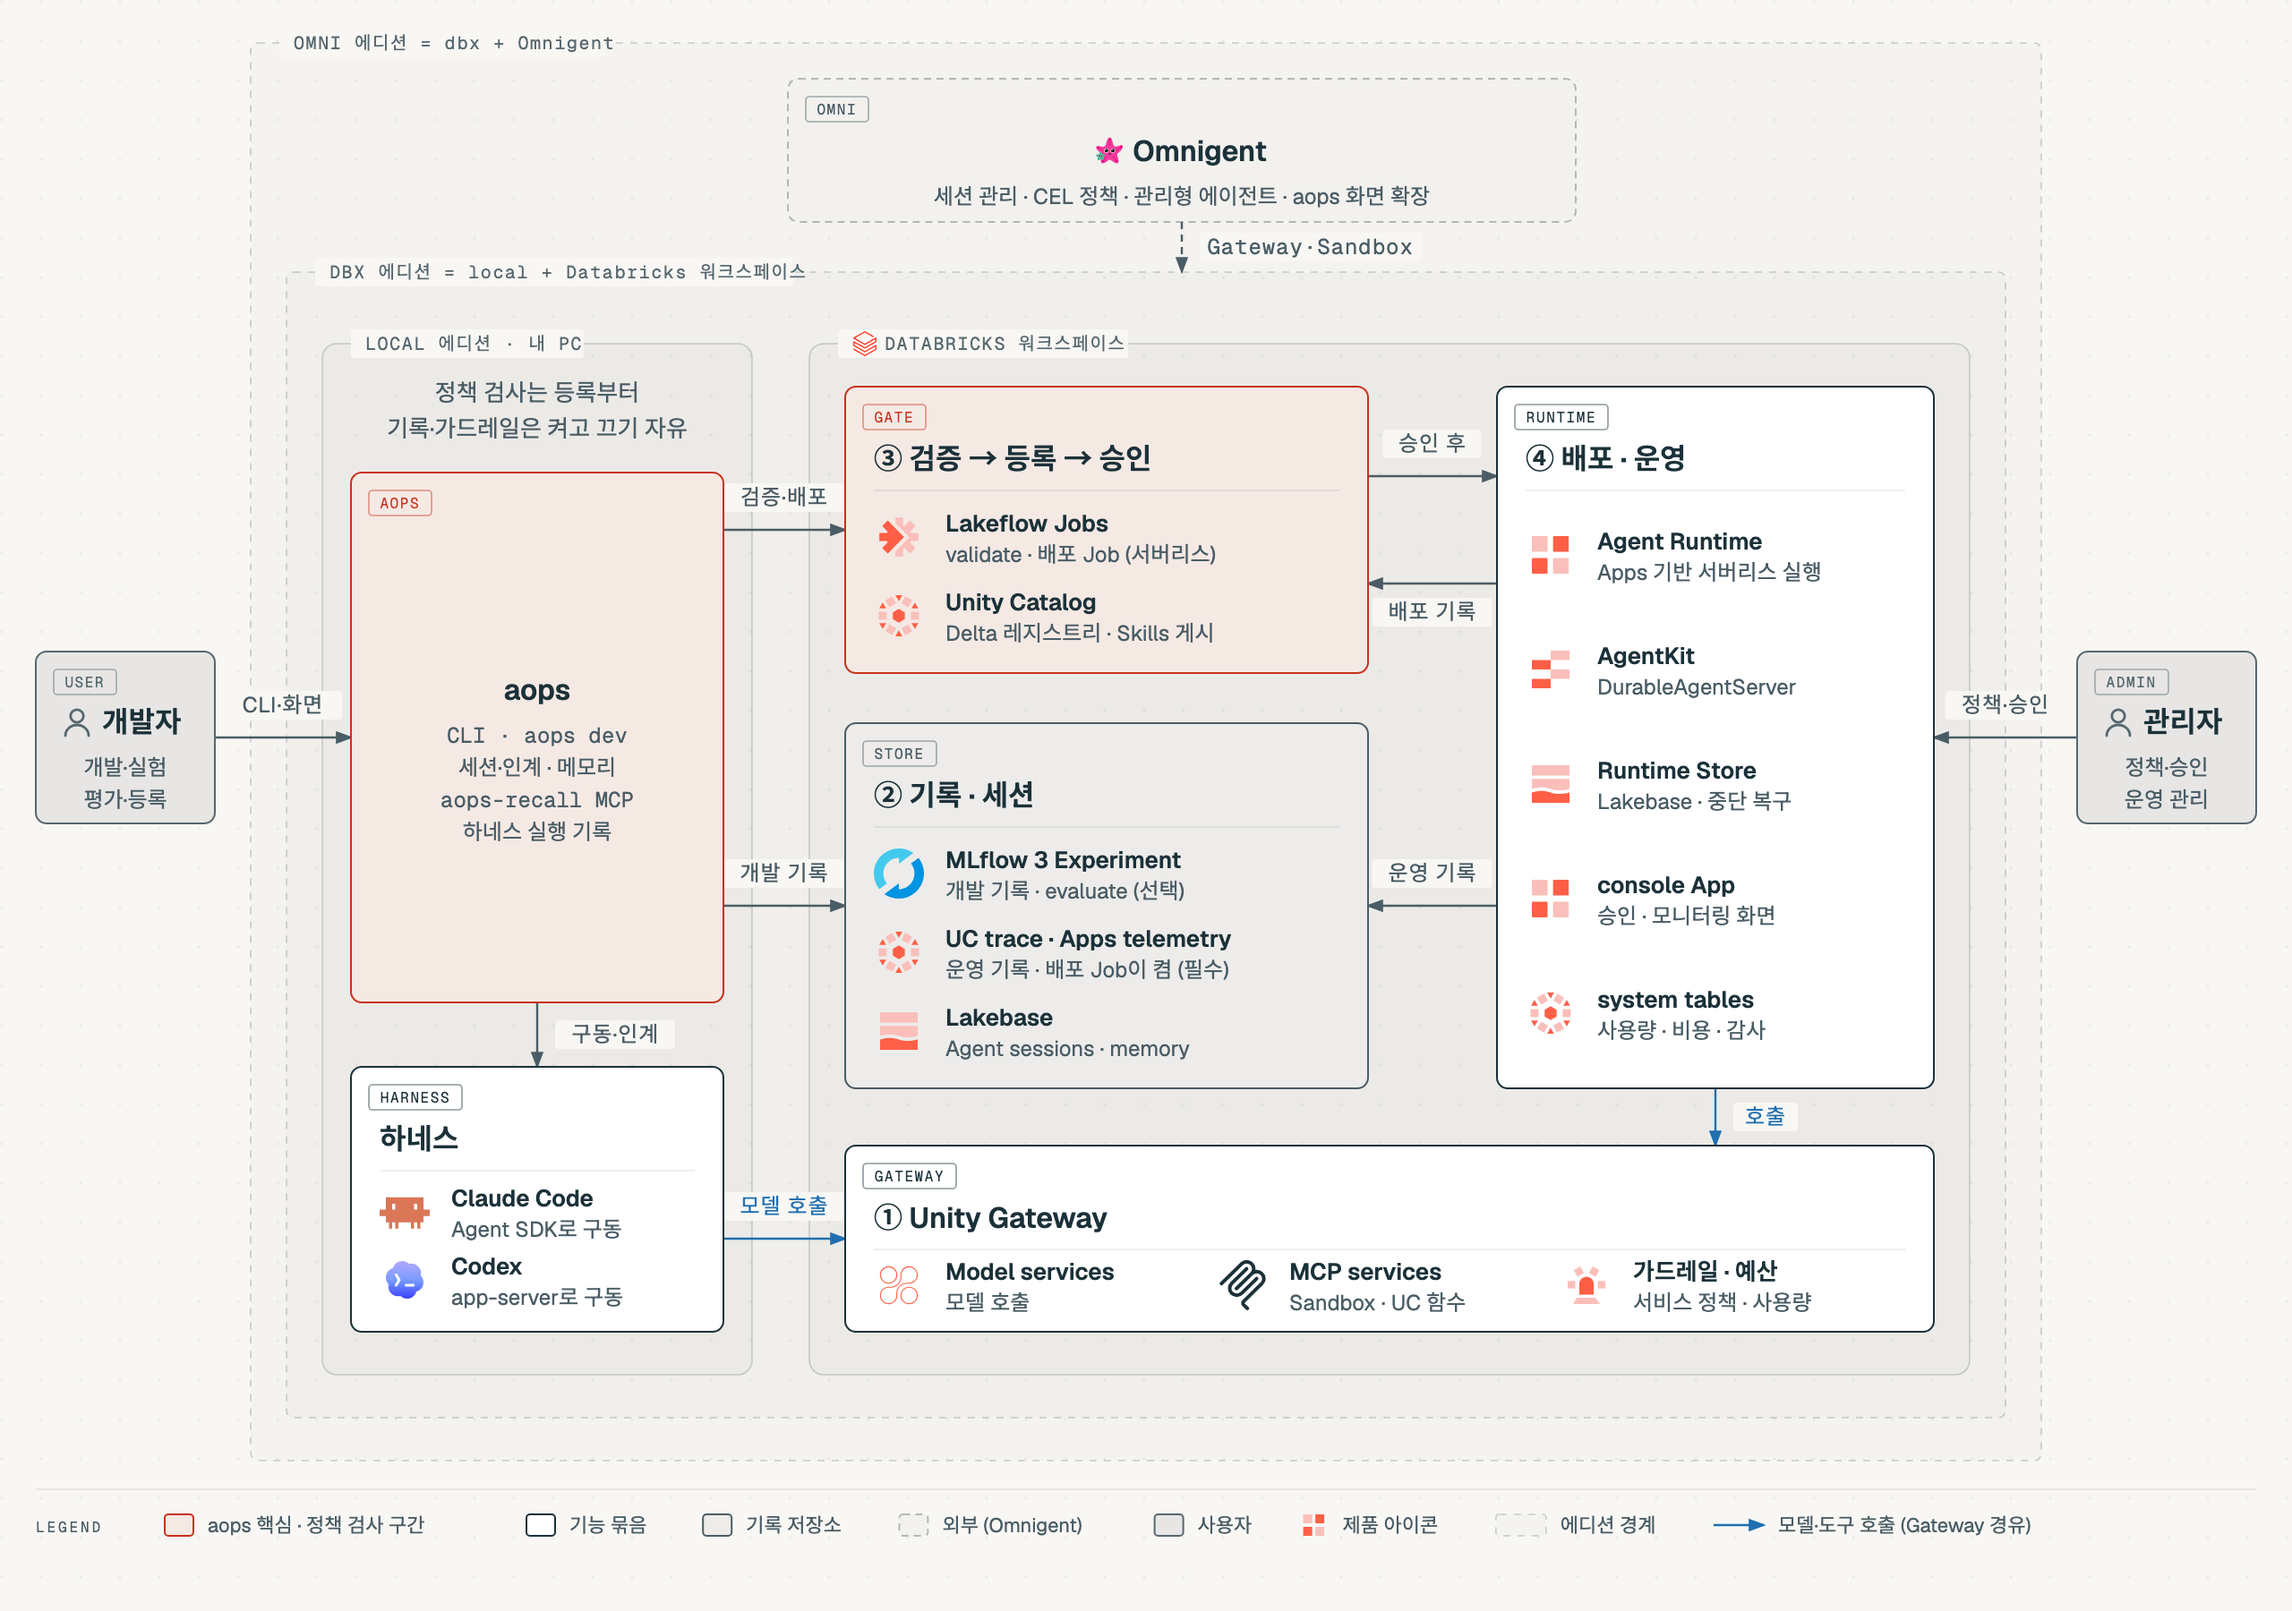
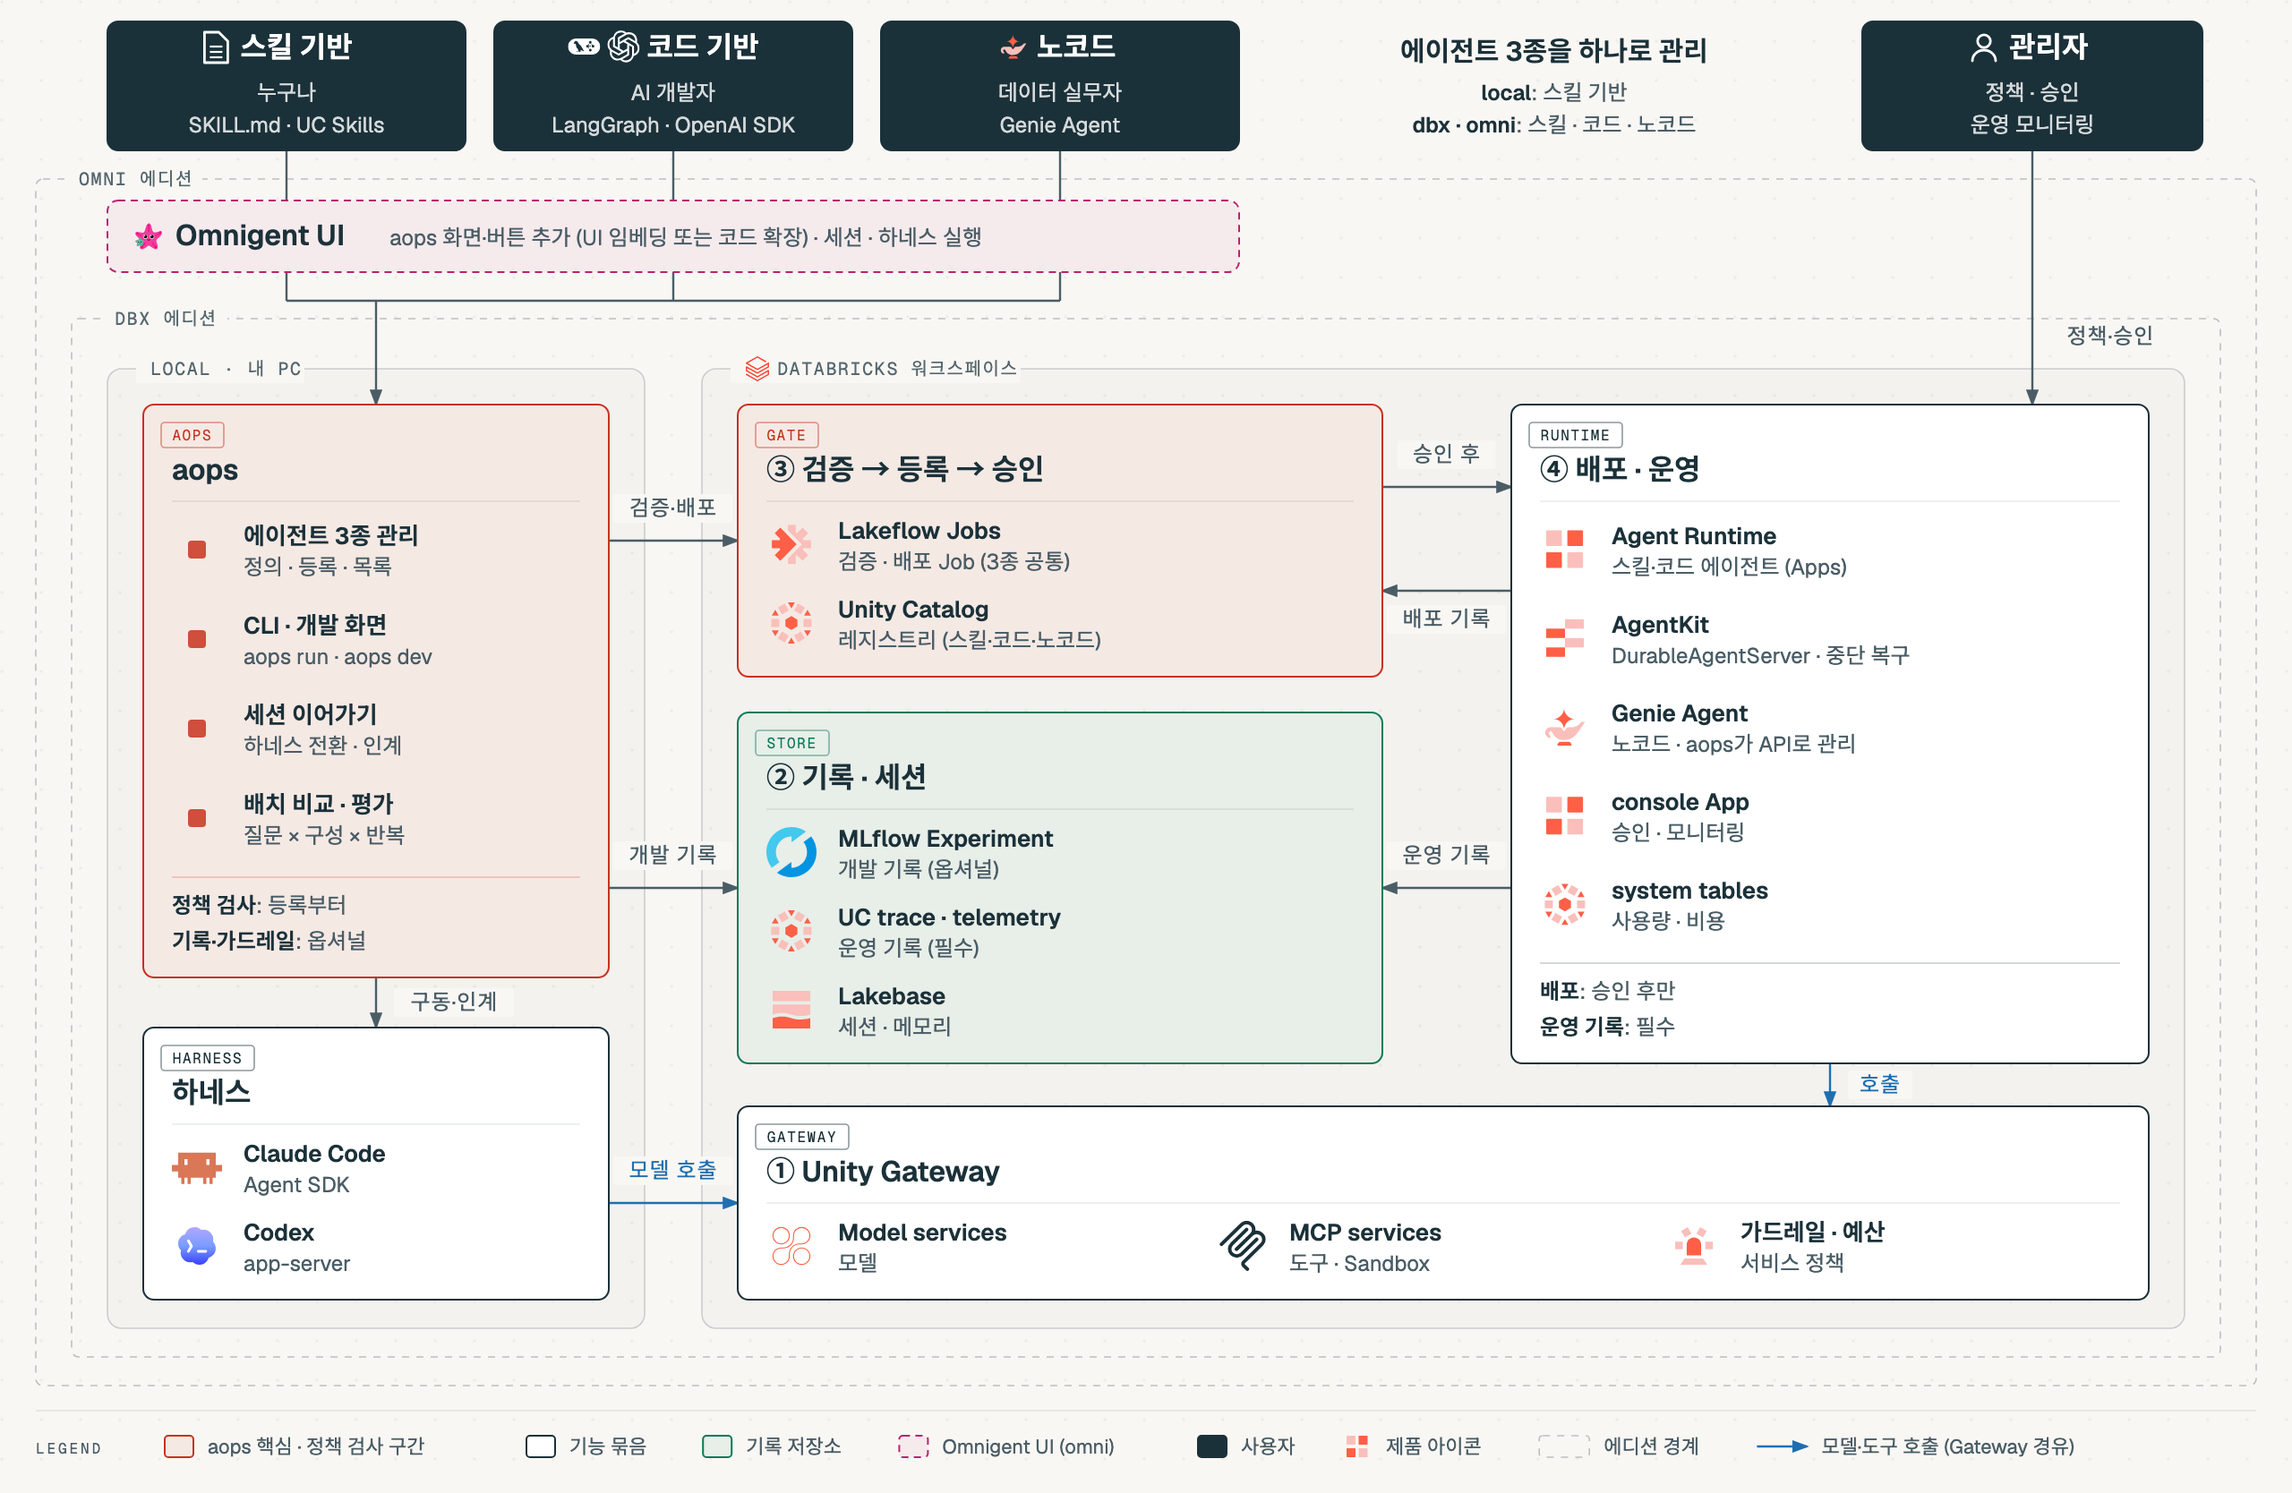
Show the three agent types and the Omnigent UI layer
Redraw the architecture with the three agent types (skill, code, no-code)
merging into aops, Omnigent UI as the layer aops extends in omni, and a
distinct colour per kind of box. Document the agent types, where each is
available, and how no-code agents are managed through the Genie API.

diff --git a/docs/commands.md b/docs/commands.md
@@ -40,12 +40,18 @@
 ### `aops init`
 
 ```bash
-aops init <name> [--harness claude|codex] [--edition local|dbx|omni] [--no-ui]
+aops init <name> [--type skill|code|no-code] [--harness claude|codex] [--edition local|dbx|omni] [--no-ui]
+aops init <name> --type no-code --genie <space-id>
 ```
 
 - 프로젝트 폴더를 만들고 `uv sync`로 aops와 하네스를 설치합니다.
 - 하네스 프로젝트 설정을 만듭니다. 이 폴더에서 `claude`·`codex`를 직접 실행해도 aops 설정과 기록이 적용됩니다. 하네스에서 이 폴더와 hook을 신뢰로 승인해야 하고, 회사 관리 설정이 프로젝트 hook을 막지 않아야 합니다.
 - 예시 질문 3개와 기본 가드레일 규칙을 넣고, 끝나면 `aops dev`를 엽니다. `--no-ui`면 열지 않습니다.
+- `--type`: 에이전트 종류입니다. `SPEC.md`의 `build_type`에 기록됩니다.
+  - `skill`(기본): 지시와 `SKILL.md`. 모든 에디션
+  - `code`: Agent Bricks 프로젝트(LangGraph·OpenAI Agents SDK). dbx 이상
+  - `no-code`: Genie Agent. dbx 이상. `--genie`가 없으면 워크스페이스의 Genie Agent 목록에서 고르거나 새로 만듭니다(Genie API)
+- `--genie <space-id>`: 그 Genie Agent의 정의를 가져와 `genie/agent.json`으로 둡니다. 이후 Genie 화면에서 고친 내용은 `aops dev`가 다시 가져옵니다.
 - dbx: Agent Bricks 프로젝트(`agent.toml`, `runtime/`)와 Unity Catalog 이름·Gateway 기본값을 함께 만듭니다.
 - omni: 같은 정의로 Omnigent 에이전트 YAML을 만듭니다.
 
@@ -167,8 +173,8 @@ aops validate [--local]
 - 커밋된 소스만 검사합니다. 커밋하지 않은 변경이 있으면 거부합니다.
 - 후보 소스와 `uv.lock`을 묶어 UC Volume의 검증 대기 위치에 올리고, validate Lakeflow Job(서버리스)을 실행합니다. 올린 소스로 검사하므로 내 PC 상태와 무관합니다.
 - 검사 단계 (항목과 기준은 [관리자 정책](registry.md#관리자-정책)에서 옵니다):
-  1. **형식:** `[release]` 필수 항목, `SPEC.md`, `agent.toml`, 스킬 형식, 도구 권한, 허용된 Model service·MCP, 비밀값·금지 파일, 에이전트 서버 종류
-  2. **평가:** `[release] evals` 데이터셋을 채점해 정책의 최소 점수와 비교
+  1. **형식:** `[release]` 필수 항목, `SPEC.md`, `agent.toml`, 스킬 형식, 도구 권한, 허용된 Model service·MCP, 비밀값·금지 파일, 에이전트 서버 종류. 노코드는 Genie 정의의 테이블·지시가 정책에 맞는지
+  2. **평가:** `[release] evals` 데이터셋을 채점해 정책의 최소 점수와 비교. 노코드는 Genie benchmark 평가로 채점
   3. **가드레일:** `[release.guardrails]`에 정책이 요구하는 층·규칙이 있는지, 레드팀 통과율
   4. **호환:** `uv.lock`의 하네스·SDK 버전이 허용 범위와 호환표에 있는지
   5. **기록:** MLflow run과 Delta `validations`에 단계별 결과, 소스 해시, 정책 버전을 남김
@@ -197,6 +203,7 @@ aops deploy --dev
 - **요청:** Delta `deploy_requests`에 승인 대기로 남깁니다. 검증할 때의 정책 버전이 지금 정책과 다르면 다시 `validate`하라고 안내합니다.
 - **승인:** console App에서 승인 그룹(`[dbx] approvers`)이 합니다. 요청자 본인은 승인할 수 없습니다.
 - **배포:** 배포 Job(서비스 주체 실행)이 승인 기록을 다시 확인하고 `agentbricks deploy`로 Agent Runtime(Databricks Apps)에 배포합니다. 앱 이름은 `agent-bricks-<name>`입니다.
+- **노코드:** 배포 Job이 등록된 Genie 정의를 대상 워크스페이스의 Genie Agent로 만들거나 고칩니다. 카탈로그 이름이 다르면 바꿔 넣습니다.
 - **에이전트 서버:** AgentKit `DurableAgentServer`(`/api/invocations`)입니다. 요청 ID로 중복 실행을 막고, 동기·스트리밍·백그라운드 호출을 같은 실행으로 다룹니다. Runtime Store(Lakebase)가 실행 상태를 보관해 중단된 실행을 복구합니다.
 - **가드레일:** 개발 중 스위치(`[guardrails]`)가 아니라 배포 구성(`[release.guardrails]`)이 배포 패키지에 들어갑니다. Unity Gateway 정책 점검 결과는 `deployments`에 남습니다.
 - **운영 기록:** 배포된 에이전트에 MLflow tracing과 Apps telemetry를 켭니다. 정책에 따라 켜지는 조직 서비스의 기록이라, 에이전트를 쓰는 최종 사용자 쪽에서는 끌 수 없습니다.

diff --git a/docs/project.md b/docs/project.md
@@ -21,6 +21,7 @@ my-agent/
 │   ├── questions.yaml    배치 질문
 │   └── datasets/         정답이 있는 평가 데이터
 ├── memory/               장기 메모리 (Markdown, 승인된 항목만)
+├── genie/agent.json      (노코드) Genie Agent 정의 (Databricks에서 가져온 것)
 ├── AGENTS.md  CLAUDE.md  .codex/  .claude/  .agents/skills/
 │                         하네스 프로젝트 설정 (aops가 aops.toml에서 만든다)
 ├── agent.toml            (dbx) Agent Bricks 프로젝트 선언
